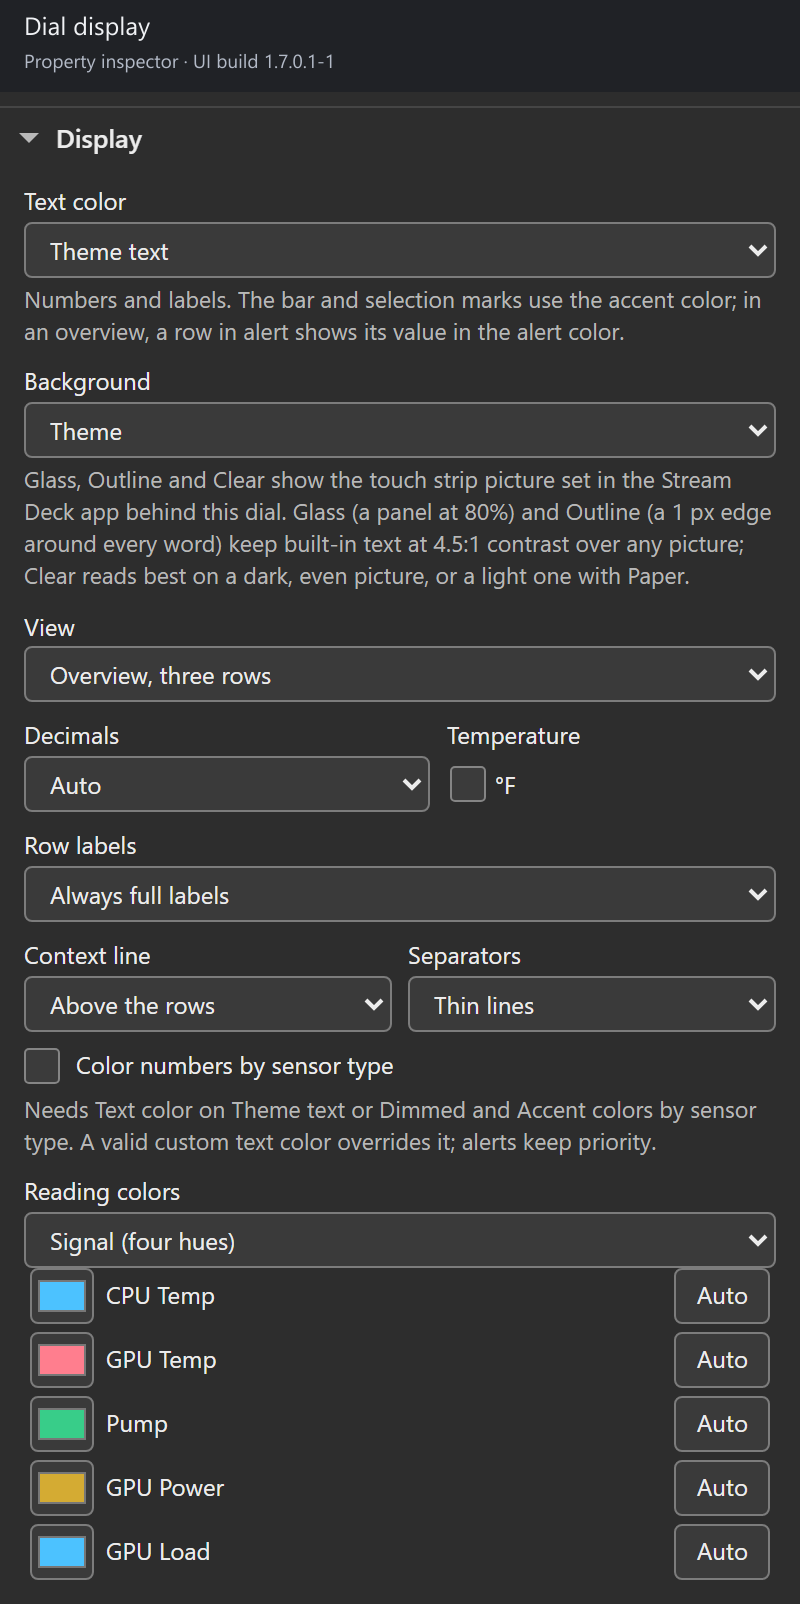
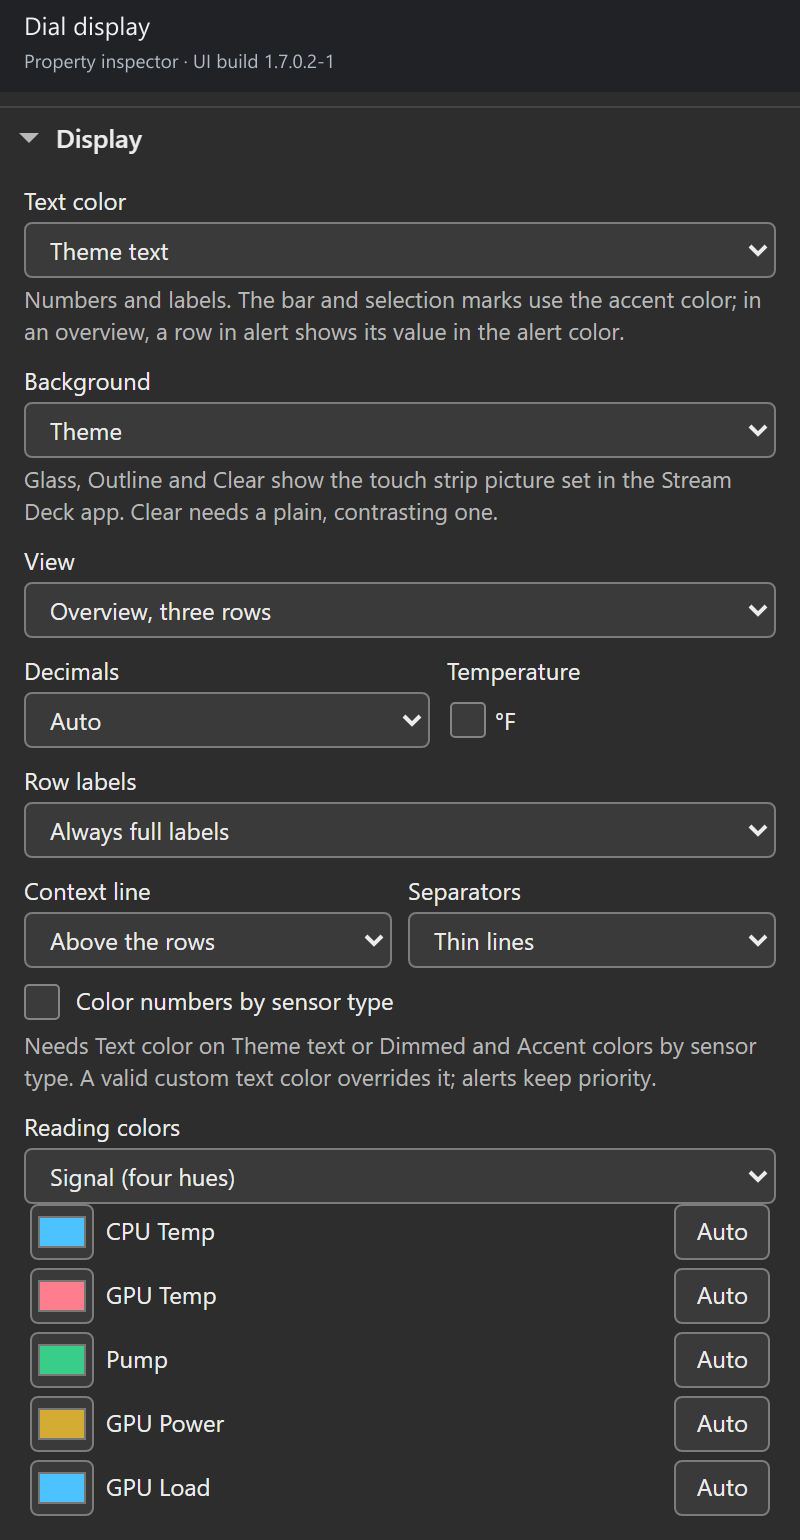
chore(preview): 1.7.0.2, the 1.7.1 preview after the deslop pass
#51 and #52 lose 183 lines between them with every face byte unchanged,
and the Background help shrinks to two lines. Panel token 1.7.0.2-1.

diff --git a/com.lawrensen.hwinfo.sdPlugin/ui/sensor-reading.html b/com.lawrensen.hwinfo.sdPlugin/ui/sensor-reading.html
@@ -5,7 +5,7 @@
 		<title>Sensor Reading settings</title>
 		<script src="sdpi-components.js"></script>
 		<!-- ?v= busts the webview cache; bump it with the plugin version. -->
-		<link rel="stylesheet" href="pi.css?v=1.7.0.1-1" />
+		<link rel="stylesheet" href="pi.css?v=1.7.0.2-1" />
 	</head>
 	<body data-kind="key">
 		<header class="hw-head" id="hw-head" data-kind="key" data-pin>
@@ -464,9 +464,9 @@
 			</div>
 		</details>
 
-		<script src="pi-model.js?v=1.7.0.1-1"></script>
-		<script src="pi-shell.js?v=1.7.0.1-1"></script>
-		<script src="pi-common.js?v=1.7.0.1-1"></script>
-		<script src="pi-control.js?v=1.7.0.1-1"></script>
+		<script src="pi-model.js?v=1.7.0.2-1"></script>
+		<script src="pi-shell.js?v=1.7.0.2-1"></script>
+		<script src="pi-common.js?v=1.7.0.2-1"></script>
+		<script src="pi-control.js?v=1.7.0.2-1"></script>
 	</body>
 </html>

diff --git a/com.lawrensen.hwinfo.sdPlugin/ui/control.html b/com.lawrensen.hwinfo.sdPlugin/ui/control.html
@@ -5,7 +5,7 @@
 		<title>HWiNFO Control settings</title>
 		<script src="sdpi-components.js"></script>
 		<!-- ?v= busts the webview cache; bump it with the plugin version. -->
-		<link rel="stylesheet" href="pi.css?v=1.7.0.1-1" />
+		<link rel="stylesheet" href="pi.css?v=1.7.0.2-1" />
 	</head>
 	<body data-kind="control">
 		<header class="hw-head" id="hw-head" data-kind="control">
@@ -72,9 +72,9 @@
 			</div>
 		</details>
 
-		<script src="pi-model.js?v=1.7.0.1-1"></script>
-		<script src="pi-shell.js?v=1.7.0.1-1"></script>
-		<script src="pi-command.js?v=1.7.0.1-1"></script>
-		<script src="pi-control.js?v=1.7.0.1-1"></script>
+		<script src="pi-model.js?v=1.7.0.2-1"></script>
+		<script src="pi-shell.js?v=1.7.0.2-1"></script>
+		<script src="pi-command.js?v=1.7.0.2-1"></script>
+		<script src="pi-control.js?v=1.7.0.2-1"></script>
 	</body>
 </html>

diff --git a/com.lawrensen.hwinfo.sdPlugin/ui/sensor-dial.html b/com.lawrensen.hwinfo.sdPlugin/ui/sensor-dial.html
@@ -5,7 +5,7 @@
 		<title>Sensor Dial settings</title>
 		<script src="sdpi-components.js"></script>
 		<!-- ?v= busts the webview cache; bump it with the plugin version. -->
-		<link rel="stylesheet" href="pi.css?v=1.7.0.1-1" />
+		<link rel="stylesheet" href="pi.css?v=1.7.0.2-1" />
 	</head>
 	<body data-kind="dial">
 		<header class="hw-head" id="hw-head" data-kind="dial" data-pin>
@@ -503,9 +503,9 @@
 			</div>
 		</details>
 
-		<script src="pi-model.js?v=1.7.0.1-1"></script>
-		<script src="pi-shell.js?v=1.7.0.1-1"></script>
-		<script src="pi-common.js?v=1.7.0.1-1"></script>
-		<script src="pi-control.js?v=1.7.0.1-1"></script>
+		<script src="pi-model.js?v=1.7.0.2-1"></script>
+		<script src="pi-shell.js?v=1.7.0.2-1"></script>
+		<script src="pi-common.js?v=1.7.0.2-1"></script>
+		<script src="pi-control.js?v=1.7.0.2-1"></script>
 	</body>
 </html>

diff --git a/com.lawrensen.hwinfo.sdPlugin/ui/detail-slot.html b/com.lawrensen.hwinfo.sdPlugin/ui/detail-slot.html
@@ -3,7 +3,7 @@
 	<head>
 		<meta charset="utf-8" />
 		<title>Sensor detail tile</title>
-		<link rel="stylesheet" href="pi.css?v=1.7.0.1-1" />
+		<link rel="stylesheet" href="pi.css?v=1.7.0.2-1" />
 	</head>
 	<body data-kind="slot">
 		<!-- This tile has no settings of its own: its role is baked into the
@@ -21,6 +21,6 @@
 			<p class="hw-lede" id="slot-explain">This tile belongs to the plugin-managed sensor detail view and has no settings of its own.</p>
 			<p class="hw-lede">To change what the view lists, its title or its look, go back and select the Sensor Reading key that opened it, then open its Press section. The Back tile at the top left returns to the profile you came from.</p>
 		</div>
-		<script src="pi-slot.js?v=1.7.0.1-1"></script>
+		<script src="pi-slot.js?v=1.7.0.2-1"></script>
 	</body>
 </html>

diff --git a/com.lawrensen.hwinfo.sdPlugin/ui/pi-common.js b/com.lawrensen.hwinfo.sdPlugin/ui/pi-common.js
@@ -15,7 +15,7 @@
 	// Build stamp: the panel names the code it actually runs, because the
 	// webview outlives on-disk refreshes and caches sub-resources. Read
 	// window.__hwPiVersion (or the console line) before trusting a repro.
-	const PI_BUILD = "1.7.0.1-1";
+	const PI_BUILD = "1.7.0.2-1";
 	window.__hwPiVersion = PI_BUILD;
 	console.log(`hwinfo PI build ${PI_BUILD}`);
 

diff --git a/docs/sensor-dial.md b/docs/sensor-dial.md
@@ -84,7 +84,7 @@ measurement to avoid that.
 
 ![The Display section of the dial's settings panel: Text color on Theme text, View on Overview (three rows), Row labels on Always full labels, Color numbers by sensor type unticked, and Reading colors on Signal (four hues), with a color well and an Auto button for each reading: CPU Temp blue, GPU Temp pink, Pump green, GPU Power gold and GPU Load blue.]({{ '/assets/img/pi-dial-reading-colors-1.7.png' | relative_url }})
 
-*An actual settings-panel capture at panel build 1.7.0.1-1 (the marker in its title bar), served by the local test host with live HWiNFO Shared Memory readings.*
+*An actual settings-panel capture at panel build 1.7.0.2-1 (the marker in its title bar), served by the local test host with live HWiNFO Shared Memory readings.*
 
 ![Three-row and two-row dial examples comparing automatic text with individual reading colors. CPU temperature is blue, GPU temperature pink, pump speed green, GPU power gold and GPU load blue.]({{ '/assets/img/dial-reading-colors-1.7.png' | relative_url }})
 

diff --git a/docs/changelog.md b/docs/changelog.md
@@ -15,7 +15,7 @@ One entry per version. A tagged version is built and staged as a draft GitHub
 release by the workflow; I publish the draft by hand. The Elgato Marketplace
 listing is a separate track.
 
-## 1.7.0.1 - 2026-10-15
+## 1.7.0.2 - 2026-10-16
 
 A GitHub preview of 1.7.1, based on released 1.7.0. Not a Marketplace
 release.

diff --git a/CHANGELOG.md b/CHANGELOG.md
@@ -4,7 +4,7 @@ One entry per version. A tagged version is built and staged as a draft GitHub
 release by the workflow; I publish the draft by hand. The Elgato Marketplace
 listing is a separate track.
 
-## 1.7.0.1 - 2026-10-15
+## 1.7.0.2 - 2026-10-16
 
 A GitHub preview of 1.7.1, based on released 1.7.0. Not a Marketplace
 release.
